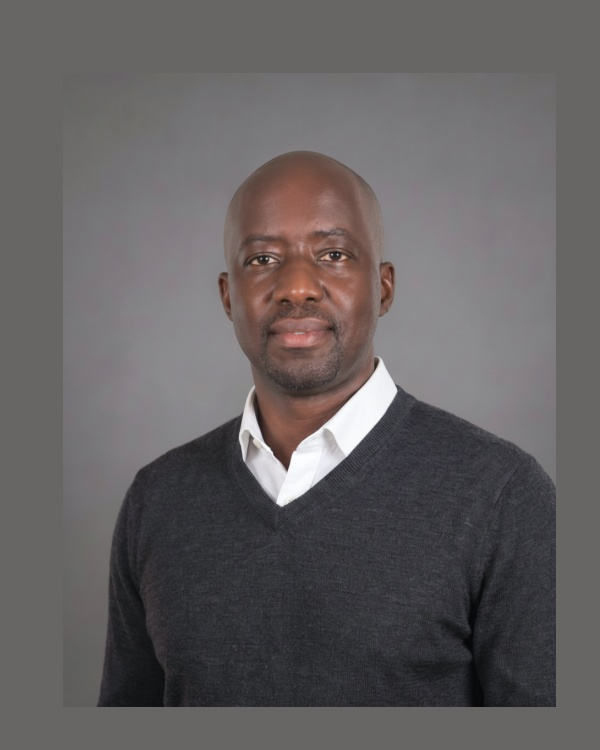
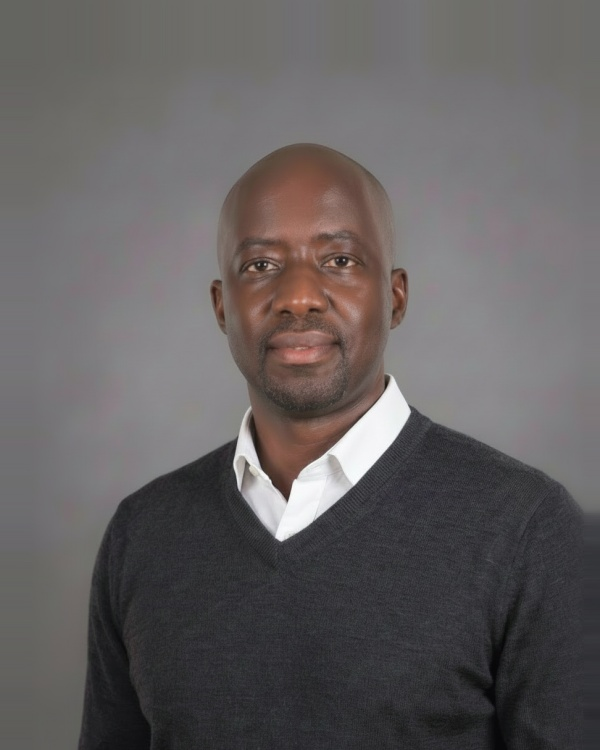
DC team: natural equal-size framing (full shoulders, no bars/cutoff); Vivian -> Membership Consultant

diff --git a/delta.html b/delta.html
@@ -416,7 +416,7 @@
                           <td class="team-cell" style="padding: 0 0 32px 8px;" valign="top" width="33.33%">
                             <img alt="Vivian" height="300" src="https://raw.githubusercontent.com/dionkiarie-dotcom/afrofit-newsletter-assets/main/team-vivian.jpg" style="display: block; width: 100%; max-width: 240px; height: auto; margin: 0 auto 12px auto; border: 0;" width="240">
                             <p style="font-family: 'Oswald', 'Helvetica Neue Condensed', 'Roboto Condensed', sans-serif; font-weight: 700; font-size: 20px; color: #FFFFFF; text-align: center; text-transform: uppercase; margin: 0 0 4px 0;">Vivian</p>
-                            <p style="font-family: 'Oswald', 'Helvetica Neue Condensed', 'Roboto Condensed', sans-serif; font-weight: 500; font-size: 11px; letter-spacing: 0.16em; color: #A0A0A0; text-align: center; text-transform: uppercase; margin: 0 0 8px 0;">Membership Sales</p>
+                            <p style="font-family: 'Oswald', 'Helvetica Neue Condensed', 'Roboto Condensed', sans-serif; font-weight: 500; font-size: 11px; letter-spacing: 0.16em; color: #A0A0A0; text-align: center; text-transform: uppercase; margin: 0 0 8px 0;">Membership Consultant</p>
                             <p style="text-align: center; margin: 0;"><a href="https://instagram.com/afrofit.life" style="font-family: 'Oswald', 'Helvetica Neue Condensed', 'Roboto Condensed', sans-serif; font-weight: 600; font-size: 11px; letter-spacing: 0.18em; color: #01D923; text-decoration: none; text-transform: uppercase;" data-link-id="188178859439424556">@afrofit.life</a></p>
                           </td>
                         </tr>